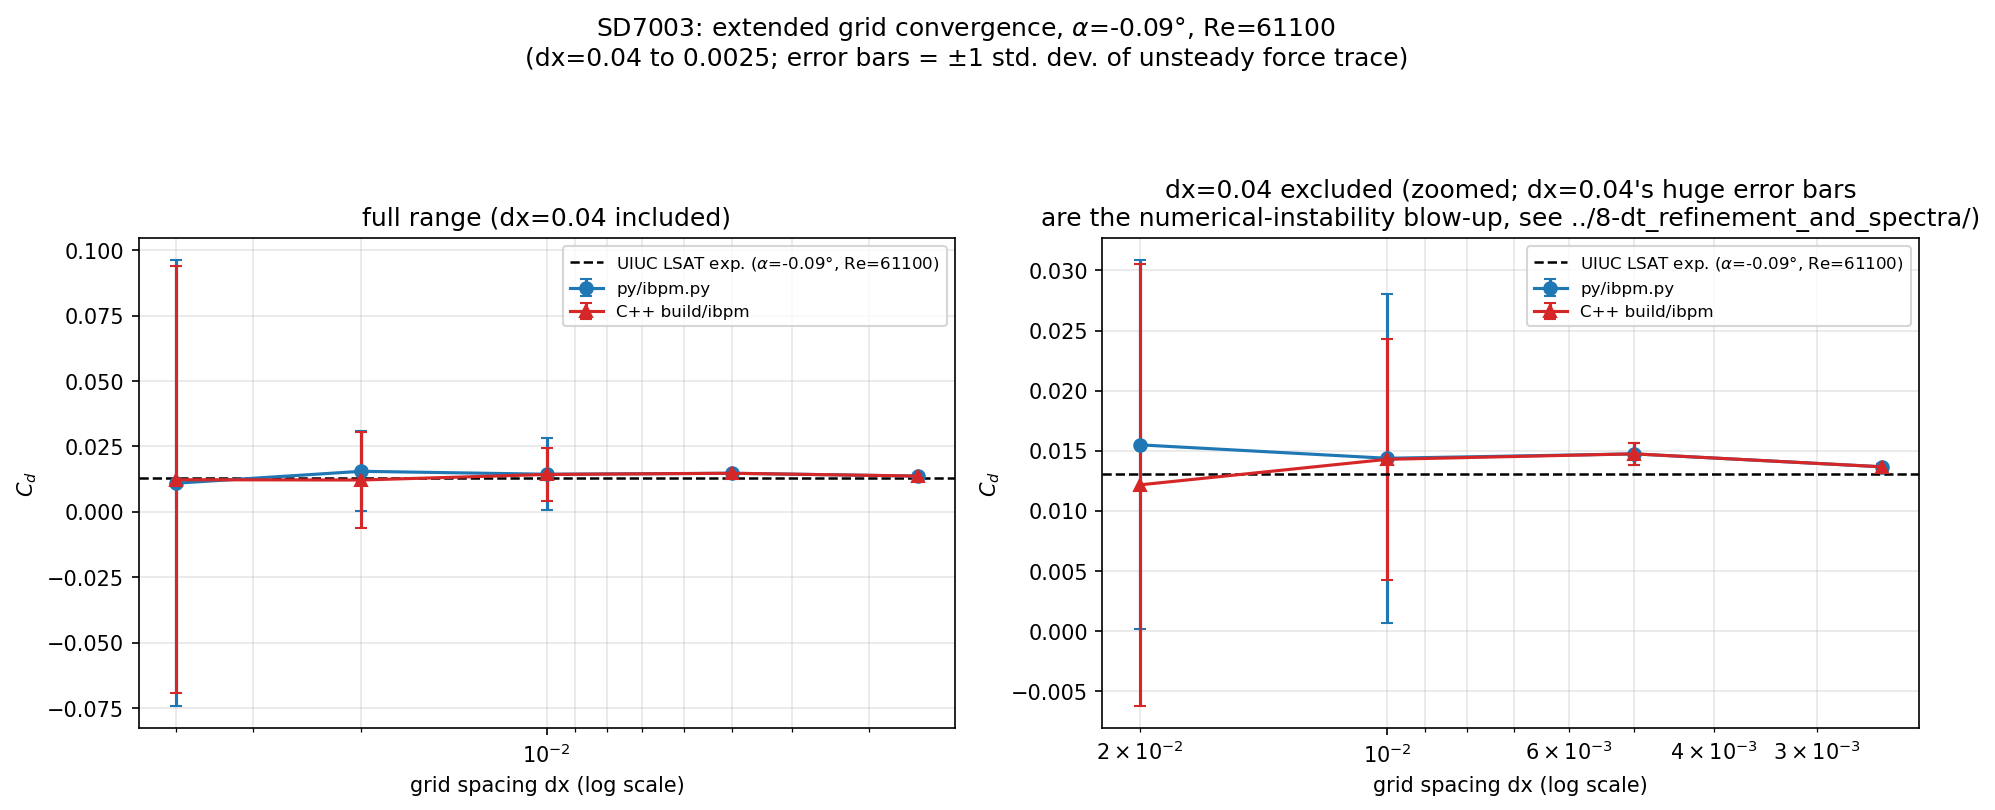
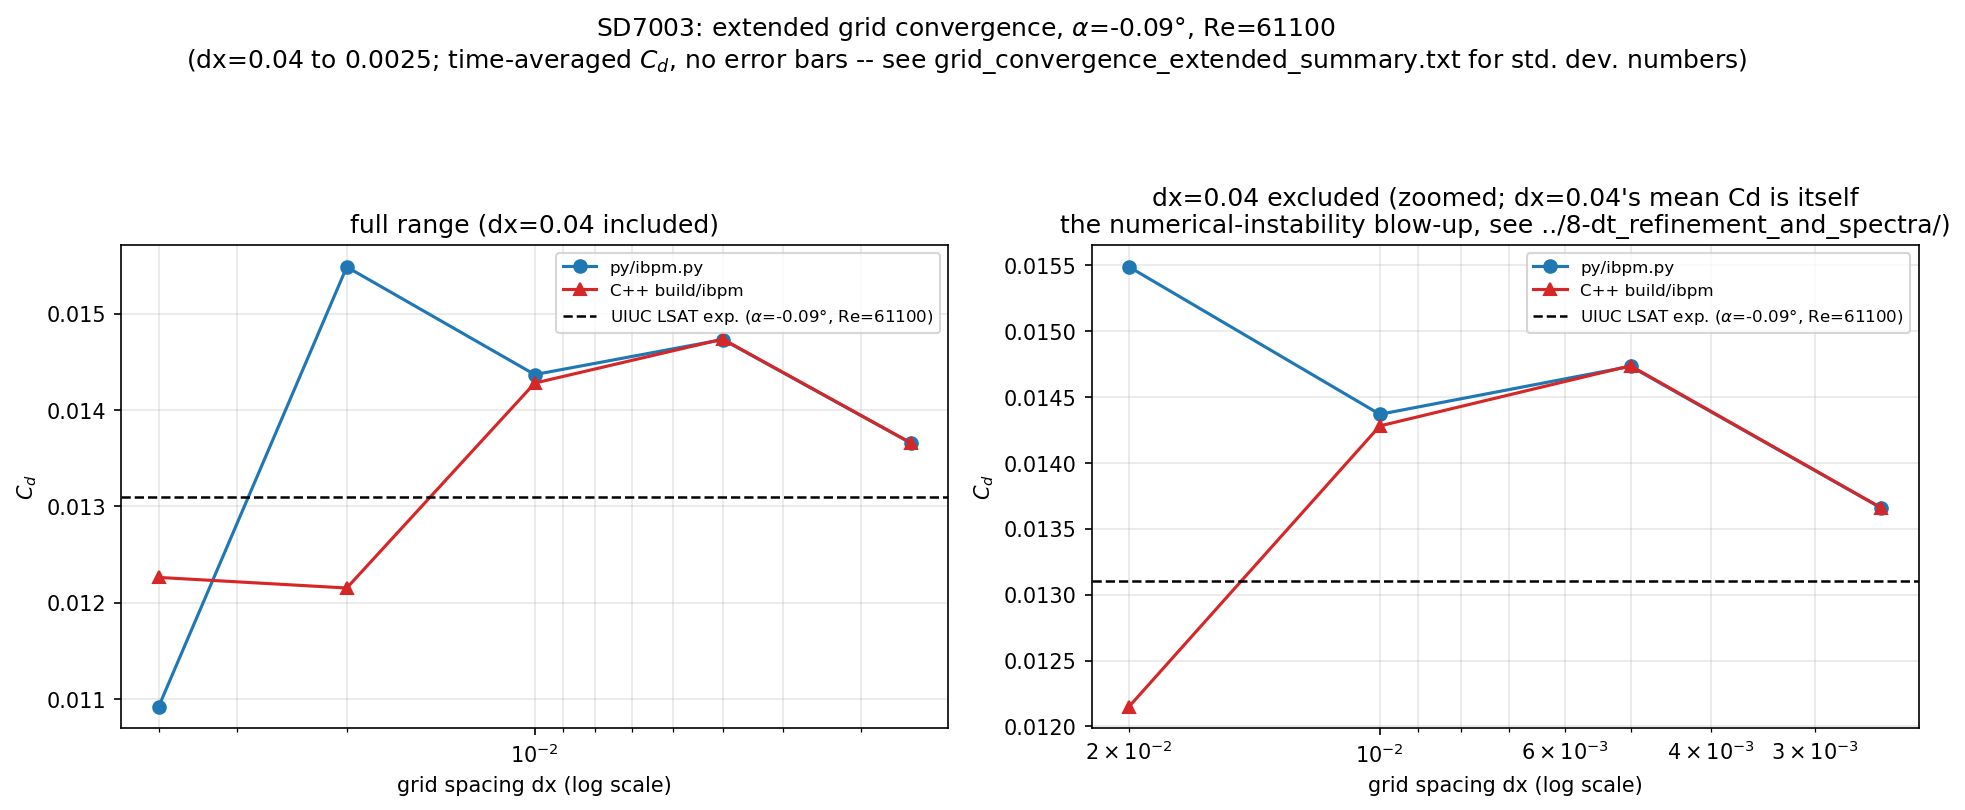
Drop error bars from SD7003/SD8000 extended grid-convergence plots
The std.-dev. whiskers (especially dx=0.04's, spanning the numerical-
instability blow-up characterized in 8-dt_refinement_and_spectra/) were
dominating the plots' scale and obscuring the py-vs-cpp trend the fine-dx
points actually show. Std. dev. numbers are still in
grid_convergence_extended_summary.txt for anyone who wants them.

diff --git a/SURF_test/gen_sd_gridconv_extended_figs.py b/SURF_test/gen_sd_gridconv_extended_figs.py
@@ -66,9 +66,8 @@ def main():
                 rows = [p for p in pts[impl] if not (skip_coarse and p[0] == 0.04)]
                 dxs = [p[0] for p in rows]
                 cds = [p[1] for p in rows]
-                stds = [p[2] for p in rows]
-                ax.errorbar(dxs, cds, yerr=stds, fmt=f"{marker}-", color=color, capsize=3,
-                            label=f"{'py/ibpm.py' if impl == 'py' else 'C++ build/ibpm'}")
+                ax.plot(dxs, cds, f"{marker}-", color=color,
+                        label=f"{'py/ibpm.py' if impl == 'py' else 'C++ build/ibpm'}")
             ax.axhline(exp_cd_at_alpha, color="k", ls="--", lw=1.2,
                        label=f"UIUC LSAT exp. ($\\alpha$={exp_alpha[exp_row]:.2f}°, Re={exp['Re']:.0f})")
             ax.invert_xaxis()
@@ -77,11 +76,12 @@ def main():
             ax.set_ylabel("$C_d$")
             ax.legend(fontsize=8)
             ax.grid(alpha=0.3, which="both")
-            ax.set_title("dx=0.04 excluded (zoomed; dx=0.04's huge error bars\n"
-                         "are the numerical-instability blow-up, see ../8-dt_refinement_and_spectra/)"
+            ax.set_title("dx=0.04 excluded (zoomed; dx=0.04's mean Cd is itself\n"
+                         "the numerical-instability blow-up, see ../8-dt_refinement_and_spectra/)"
                          if skip_coarse else "full range (dx=0.04 included)")
         fig.suptitle(f"{name}: extended grid convergence, $\\alpha$={cfg['conv_alpha']}°, "
-                     f"Re={cfg['Re']}\n(dx=0.04 to 0.0025; error bars = ±1 std. dev. of unsteady force trace)")
+                     f"Re={cfg['Re']}\n(dx=0.04 to 0.0025; time-averaged $C_d$, no error bars -- "
+                     f"see grid_convergence_extended_summary.txt for std. dev. numbers)")
         fig.tight_layout(rect=(0, 0, 1, 0.90))
         outp = outdir / "grid_convergence_extended.png"
         fig.savefig(outp, dpi=150, bbox_inches="tight")
